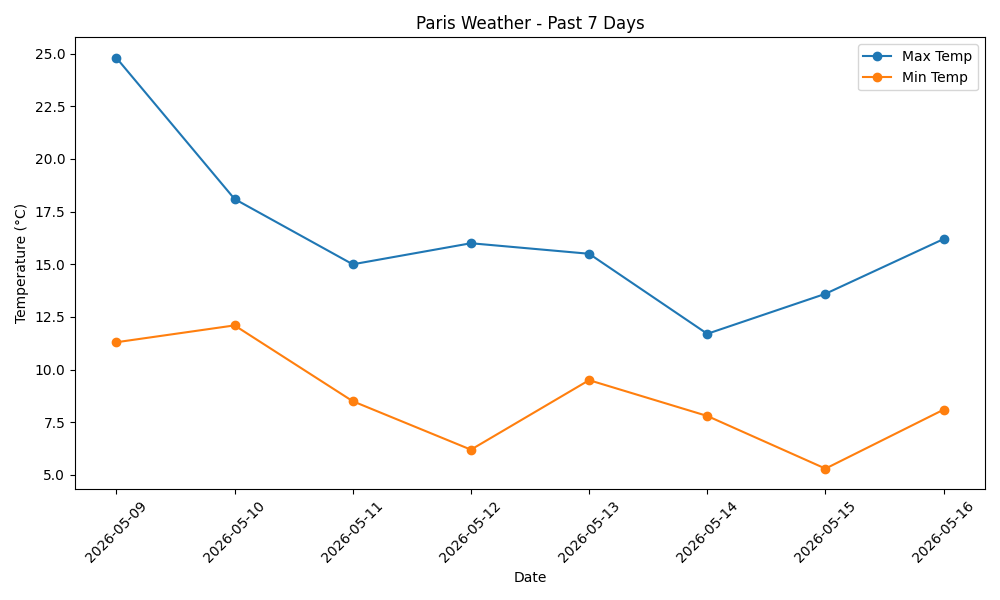
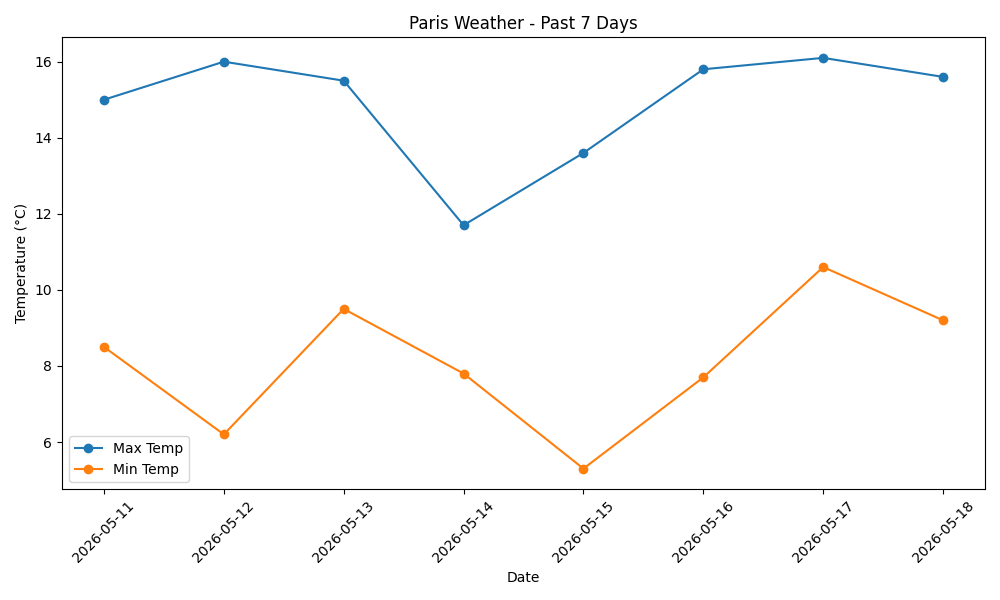
got understanding of the datefram of pandas library

diff --git a/working_with_data/formatted_date_and_data.py b/working_with_data/formatted_date_and_data.py
@@ -29,6 +29,8 @@ df = pd.DataFrame({
     'max_temp': daily_data['temperature_2m_max'],
     'min_temp': daily_data['temperature_2m_min']
 })
+avrg_temp= df['min_temp'].mean()
+print(f'Average temperature is {avrg_temp}')
 
 # Convert date strings to datetime
 df['date'] = pd.to_datetime(df['date'])
